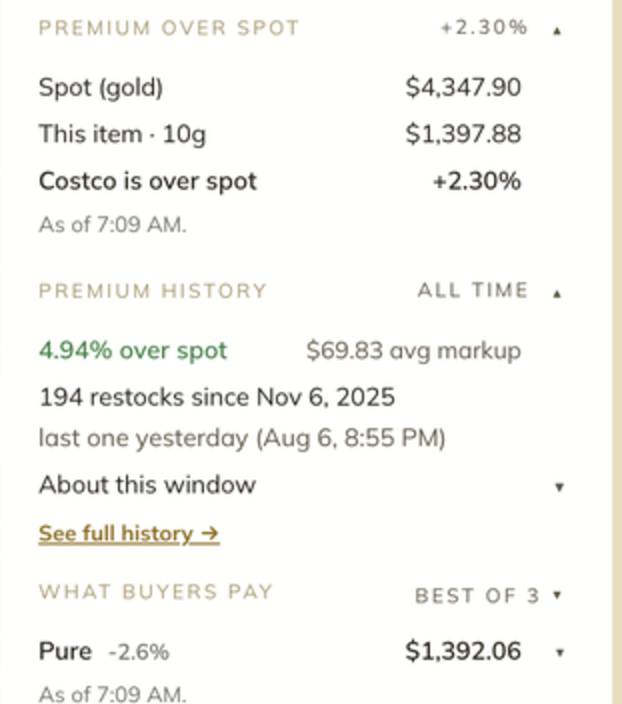
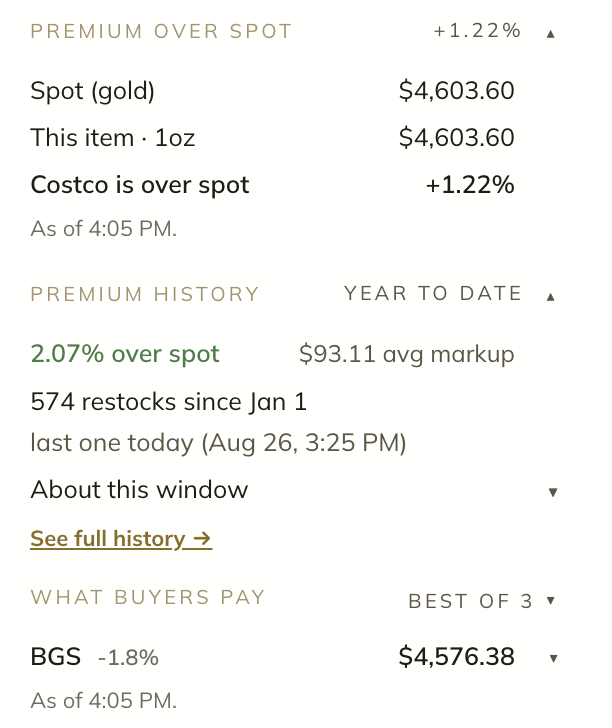
Extension page: native-retina panel crops from the in-stock capture
panel-market-data and panel-quantity re-cut at full resolution
(replacing the 2x upscales, cache-busted), plus a new
panel-limit-tracker crop of the expanded daily-limit box, added to
the Buy row with a caption. Cart-guard remains the last soft crop,
pending its state capture.

diff --git a/extension/index.html b/extension/index.html
@@ -251,7 +251,7 @@ body { margin:0; background:#1b1b1d; color:#f0f0f0; font-family:-apple-system,Bl
   <section data-sec="" style="padding:2.5rem 2rem;">
     <div data-row="" style="max-width:1180px;margin:auto;display:grid;grid-template-columns:1fr 1fr;gap:4rem;align-items:center;">
       <div data-row-media="" style="display:flex;flex-direction:column;gap:1rem;">
-        <img data-zoom="" src="assets/ext/panel-market-data.png" alt="Close-up of the panel: spot price, this item's value at spot, Costco's markup, premium history and buyer payouts" style="width:100%;max-width:600px;margin:0 auto;display:block;border-radius:14px;border:0.75px solid rgba(255,138,61,0.25);box-shadow:0 8px 28px rgba(0,0,0,0.6);background:#ffffff;">
+        <img data-zoom="" src="assets/ext/panel-market-data.png?v=2" alt="Close-up of the panel: spot price, this item's value at spot, Costco's markup, premium history and buyer payouts" style="width:100%;max-width:600px;margin:0 auto;display:block;border-radius:14px;border:0.75px solid rgba(255,138,61,0.25);box-shadow:0 8px 28px rgba(0,0,0,0.6);background:#ffffff;">
         <img data-zoom="" src="assets/ext/02-category-grid.png?v=2" alt="Gold and silver rates on a Costco category page, with a quantity and running total under each item" style="width:100%;display:block;border-radius:14px;border:0.75px solid rgba(255,138,61,0.25);box-shadow:0 8px 28px rgba(0,0,0,0.6);background:#262628;">
       </div>
       <div data-row-copy="">
@@ -289,11 +289,13 @@ body { margin:0; background:#1b1b1d; color:#f0f0f0; font-family:-apple-system,Bl
         </div>
       </div>
       <div data-row-media="" style="display:flex;flex-direction:column;gap:1rem;">
-        <img data-zoom="" src="assets/ext/panel-quantity.png" alt="Close-up of the panel's quantity to checkout row, each quantity showing its running total" style="width:100%;max-width:600px;margin:0 auto;display:block;border-radius:14px;border:0.75px solid rgba(255,138,61,0.25);box-shadow:0 8px 28px rgba(0,0,0,0.6);background:#ffffff;">
+        <img data-zoom="" src="assets/ext/panel-quantity.png?v=2" alt="Close-up of the panel's quantity to checkout row, each quantity showing its running total" style="width:100%;max-width:600px;margin:0 auto;display:block;border-radius:14px;border:0.75px solid rgba(255,138,61,0.25);box-shadow:0 8px 28px rgba(0,0,0,0.6);background:#ffffff;">
         <div data-grid-2="" style="display:grid;grid-template-columns:1fr 1fr;gap:1rem;align-items:start;">
           <img data-zoom="" src="assets/ext/panel-fewer-left.png" alt="The Fewer Left setting: show me what's left and let me choose, or buy what's left and keep going" style="width:100%;display:block;border-radius:14px;border:0.75px solid rgba(255,138,61,0.25);box-shadow:0 8px 28px rgba(0,0,0,0.6);background:#ffffff;">
           <img data-zoom="" src="assets/ext/panel-cart-guard.png" alt="Cart guard: one-click checkout is held back until the cart is empty, with a link to clear it and continue" style="width:100%;max-width:480px;display:block;border-radius:14px;border:0.75px solid rgba(255,138,61,0.25);box-shadow:0 8px 28px rgba(0,0,0,0.6);background:#ffffff;">
         </div>
+        <img data-zoom="" src="assets/ext/panel-limit-tracker.png" alt="The panel tracking Costco's daily purchase limit: 8 of 8 units left today from your recent orders, and when you can order again" style="width:100%;max-width:600px;margin:0 auto;display:block;border-radius:14px;border:0.75px solid rgba(255,138,61,0.25);box-shadow:0 8px 28px rgba(0,0,0,0.6);background:#ffffff;">
+        <p style="font-size:0.85rem;color:#8f8f92;font-style:italic;margin:0;line-height:1.6;">Daily limits, tracked for you: how many units you have left today, and exactly when you can order again.</p>
       </div>
     </div>
   </section>

diff --git a/EXTENSION-ASSETS-TODO.md b/EXTENSION-ASSETS-TODO.md
@@ -30,9 +30,12 @@ Three crops are 2× upscales and noticeably softer than the rest. One 2× retina
 
 | File | Current state | Fix |
 |---|---|---|
-| `extension/assets/ext/panel-market-data.png` | 622×704, 2× upscale of a 311px region | Re-cut from a retina capture |
-| `extension/assets/ext/panel-quantity.png` | 622×256, same upscale | Re-cut from the same capture |
-| `extension/assets/ext/panel-cart-guard.png` | 492×256, 2× upscale of `05-cart-guard.png` | Re-cut from a retina capture of the cart-guard state |
+| `extension/assets/ext/panel-market-data.png` | ~~soft upscale~~ DONE 2026-08-26: re-cut at native retina from the in-stock product-page capture | — |
+| `extension/assets/ext/panel-quantity.png` | ~~soft upscale~~ DONE 2026-08-26: re-cut from the same capture | — |
+| `extension/assets/ext/panel-cart-guard.png` | 492×256, 2× upscale of `05-cart-guard.png` — STILL PENDING | Needs a retina capture of the cart-guard state (checkout held until cart cleared) |
+
+Bonus from the same capture: `panel-limit-tracker.png` (new) — the expanded daily-limit box
+("8 of 8 units left today… you can order this again now"), added to tour row 03 Buy.
 
 Carlos will capture the panel open on a product page when items are next in stock (blocked
 2026-08-26: nothing available). Done so far (2026-08-26): watch-list capture cropped to `extension/assets/dash/watchlist.webp`,
